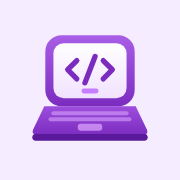
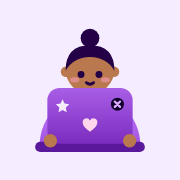
Make the mascot a little person typing on a laptop
Xpert now peeks over the laptop lid with hands on the keys. Moods show in
the face, hands and small extras: typing, waving, thinking, cheering,
ducking (peekaboo) and dozing. The logo taps the keys on load; favicon, app
icons and share image use the new mascot.

Claude-Session: https://claude.ai/code/session_012Rzw1pCt5xZ8fwkbxETP5X

Changed region(s): [[0.1667, 0.1389, 0.8333, 0.8611]]

diff --git a/public/xpert.js b/public/xpert.js
@@ -1,74 +1,77 @@
-// Xpert, the brand laptop, as a live SVG whose lid opens and closes.
+// Xpert, the brand mascot: a little person typing away behind a laptop, as a live SVG.
 // Everything is drawn once and CSS shows the state that matches data-mood:
-//   look   - lid open, </> on the screen with a blinking cursor
-//   wave   - look, with a happy little hop
-//   typing - lid open, lines of code typing across the screen
-//   think  - lid open, loading dots on the screen
-//   party  - lid open, a heart on the screen and sparkles around it
-//   closed - lid shut, stickers on the back
-//   sleepy - lid shut, with a floating Zzz
-// The lid closes by folding the screen down onto the keyboard; see "Xpert, the brand laptop" in styles.css.
-// The static logo is /mascot.svg.
+//   look   - typing calmly, eyes on the screen
+//   typing - typing fast, little bits of code floating up
+//   wave   - one hand up, waving hello
+//   think  - hands still, eyes up, thought bubbles
+//   party  - both hands up, sparkles and a heart
+//   closed - ducked down behind the laptop (peekaboo)
+//   sleepy - head resting on the laptop, Zzz
+// The lid faces us (its back, with stickers), so the person's face peeks over it.
+// See "Xpert, the brand mascot" in styles.css. The static logo is /mascot.svg.
 
 const reducedMotion = () => window.matchMedia('(prefers-reduced-motion: reduce)').matches;
 let uid = 0;
 
 export function xpert(mood = 'look', { size = 96, cls = '' } = {}) {
   const id = `xp${++uid}`;
+  const SKIN = '#b9784e';
+  const INK = '#240046';
   return `
 <svg class="xpert ${cls}" data-mood="${mood}" viewBox="-6 -10 80 78" width="${size}" height="${Math.round(size * 78 / 80)}" aria-hidden="true">
   <defs>
     <linearGradient id="${id}-lid" x1="0" y1="0" x2="0" y2="1"><stop offset="0" stop-color="#a95ee6"/><stop offset="1" stop-color="#7b2cbf"/></linearGradient>
-    <linearGradient id="${id}-scr" x1="0" y1="0" x2="0" y2="1"><stop offset="0" stop-color="#fff"/><stop offset="1" stop-color="#f1e2ff"/></linearGradient>
-    <linearGradient id="${id}-deck" x1="0" y1="0" x2="0" y2="1"><stop offset="0" stop-color="#9d4edd"/><stop offset="1" stop-color="#7b2cbf"/></linearGradient>
+    <linearGradient id="${id}-hood" x1="0" y1="0" x2="0" y2="1"><stop offset="0" stop-color="#c77dff"/><stop offset="1" stop-color="#9d4edd"/></linearGradient>
   </defs>
-  <ellipse cx="32" cy="58" rx="26" ry="2.6" fill="#3c096c" opacity=".16"/>
-  <g class="xp-body">
-    <!-- keyboard deck, seen from slightly above -->
-    <path d="M9.5 40h45l5.5 11.5a2 2 0 0 1-1.8 2.9H5.8A2 2 0 0 1 4 51.5z" fill="url(#${id}-deck)"/>
-    <g fill="#e0aaff" opacity=".55">
-      <rect x="13" y="42.4" width="38" height="2" rx="1"/><rect x="11.6" y="45.4" width="40.8" height="2" rx="1"/>
-    </g>
-    <rect x="26" y="48.6" width="12" height="3.4" rx="1.2" fill="#e0aaff" opacity=".7"/>
-    <rect x="3.6" y="53.6" width="56.8" height="3.4" rx="1.7" fill="#5a189a"/>
-    <!-- lid, open: screen faces us; it folds down toward the hinge at y=40 -->
-    <g class="xp-lid-front">
-      <rect x="10" y="5" width="44" height="35" rx="8" fill="url(#${id}-lid)"/>
-      <rect x="14" y="9" width="36" height="27" rx="5" fill="url(#${id}-scr)"/>
-      <circle cx="32" cy="7" r=".9" fill="#e0aaff"/>
-      <g class="xp-scr xp-code" stroke="#7b2cbf" stroke-width="2.4" fill="none" stroke-linecap="round" stroke-linejoin="round">
-        <path d="M25.5 17.5l-4.5 4.5 4.5 4.5M38.5 17.5l4.5 4.5-4.5 4.5M34.5 15.5l-5 13"/>
-        <path class="xp-caret" d="M29 32.5h6" stroke="#c77dff"/>
-      </g>
-      <g class="xp-scr xp-typing" stroke-width="2.2" stroke-linecap="round">
-        <path d="M19 15h14" stroke="#9d4edd"/><path d="M22 20h18" stroke="#c77dff"/><path d="M22 25h10" stroke="#9d4edd"/><path d="M19 30h20" stroke="#c77dff"/>
-      </g>
-      <g class="xp-scr xp-dots" fill="#9d4edd"><circle cx="26" cy="22.5" r="2"/><circle cx="32" cy="22.5" r="2"/><circle cx="38" cy="22.5" r="2"/></g>
-      <g class="xp-scr xp-heart">
-        <path d="M32 29.5s-7.5-4.6-7.5-9.4a4 4 0 0 1 7.5-2 4 4 0 0 1 7.5 2c0 4.8-7.5 9.4-7.5 9.4z" fill="#9d4edd"/>
-        <path d="M19.5 14.5l.8 1.8 1.8.8-1.8.8-.8 1.8-.8-1.8-1.8-.8 1.8-.8zM44.5 26.5l.7 1.5 1.5.7-1.5.7-.7 1.5-.7-1.5-1.5-.7 1.5-.7z" fill="#c77dff"/>
-      </g>
-    </g>
-    <!-- lid, closed: the back of the lid lies over the deck, with stickers -->
-    <g class="xp-lid-back">
-      <path d="M9.5 40h45l5.5 11.5a2 2 0 0 1-1.8 2.9H5.8A2 2 0 0 1 4 51.5z" fill="url(#${id}-lid)"/>
-      <path d="M9.5 40h45" stroke="#e0aaff" stroke-width="1" opacity=".6"/>
-      <path d="M20 50.2s-3.6-2.2-3.6-4.5a1.9 1.9 0 0 1 3.6-1 1.9 1.9 0 0 1 3.6 1c0 2.3-3.6 4.5-3.6 4.5z" fill="#ffd6ec"/>
-      <path d="M32 42.8l1.1 2.3 2.5.4-1.8 1.8.4 2.5-2.2-1.2-2.2 1.2.4-2.5-1.8-1.8 2.5-.4z" fill="#fff" opacity=".9"/>
-      <g transform="translate(44 46.5)"><circle r="3.4" fill="#10002b"/><path d="M-1.4-1.4l2.8 2.8m0-2.8-2.8 2.8" stroke="#e0aaff" stroke-width="1.2" stroke-linecap="round"/></g>
+  <ellipse cx="32" cy="58" rx="28" ry="2.6" fill="#3c096c" opacity=".16"/>
+  <g class="xp-person">
+    <path d="M7 54q0-25 25-26 25 1 25 26z" fill="url(#${id}-hood)"/>
+    <g class="xp-head">
+      <circle cx="20.2" cy="15" r="2.6" fill="${SKIN}"/><circle cx="43.8" cy="15" r="2.6" fill="${SKIN}"/>
+      <circle cx="32" cy="14" r="12" fill="${SKIN}"/>
+      <path d="M20 14.5q0-12.5 12-12.5t12 12.5q-3.5-6.5-12-6.8-8.5.3-12 6.8z" fill="${INK}"/>
+      <circle cx="32" cy="-1.5" r="4.6" fill="${INK}"/>
+      <ellipse cx="24.4" cy="19" rx="2.3" ry="1.3" fill="#ff9fb8" opacity=".55"/><ellipse cx="39.6" cy="19" rx="2.3" ry="1.3" fill="#ff9fb8" opacity=".55"/>
+      <g class="xp-face xp-eyes" fill="${INK}"><circle cx="27.6" cy="15.6" r="1.6"/><circle cx="36.4" cy="15.6" r="1.6"/></g>
+      <path class="xp-face xp-happy" d="M25.6 16q2-2.4 4 0M34.4 16q2-2.4 4 0" stroke="${INK}" stroke-width="1.6" fill="none" stroke-linecap="round"/>
+      <path class="xp-face xp-shut" d="M25.6 15.6q2 1.4 4 0M34.4 15.6q2 1.4 4 0" stroke="${INK}" stroke-width="1.6" fill="none" stroke-linecap="round"/>
+      <path class="xp-face xp-smile" d="M30.2 20.4q1.8 1.5 3.6 0" stroke="${INK}" stroke-width="1.4" fill="none" stroke-linecap="round"/>
+      <path class="xp-face xp-grin" d="M29.6 19.8h4.8a2.4 2.4 0 0 1-4.8 0z" fill="${INK}"/>
+      <circle class="xp-face xp-o" cx="32" cy="20.6" r="1.1" fill="${INK}"/>
     </g>
   </g>
+  <g class="xp-laptop">
+    <rect x="5" y="49.5" width="54" height="5" rx="2.5" fill="#5a189a"/>
+    <g class="xp-lid">
+      <rect x="11" y="23" width="42" height="27.5" rx="6" fill="url(#${id}-lid)"/>
+      <path d="M17 23.6h30" stroke="#e0aaff" stroke-width="1" opacity=".5" stroke-linecap="round"/>
+      <path d="M32 44.5s-3.6-2.2-3.6-4.5a1.9 1.9 0 0 1 3.6-1 1.9 1.9 0 0 1 3.6 1c0 2.3-3.6 4.5-3.6 4.5z" fill="#ffd6ec"/>
+      <path d="M18.5 28.5l1 2.1 2.3.4-1.7 1.6.4 2.3-2-1.1-2 1.1.4-2.3-1.7-1.6 2.3-.4z" fill="#fff" opacity=".9"/>
+      <g transform="translate(45.5 31)"><circle r="3.2" fill="#10002b"/><path d="M-1.3-1.3l2.6 2.6m0-2.6-2.6 2.6" stroke="#e0aaff" stroke-width="1.1" stroke-linecap="round"/></g>
+    </g>
+  </g>
+  <g class="xp-hands" fill="${SKIN}">
+    <circle class="xp-hand xp-hand-l" cx="12.5" cy="49" r="3.3"/>
+    <circle class="xp-hand xp-hand-r" cx="51.5" cy="49" r="3.3"/>
+  </g>
+  <g class="xp-extra xp-bits" fill="none" stroke="#9d4edd" stroke-width="1.6" stroke-linecap="round" stroke-linejoin="round">
+    <path d="M55 12l-2.5 2.5 2.5 2.5M60 12l2.5 2.5-2.5 2.5"/>
+    <path d="M6 16q-1.5 0-1.5 1.5v1q0 1-1 1 1 0 1 1v1q0 1.5 1.5 1.5"/>
+    <circle cx="62" cy="26" r="1.2" fill="#c77dff" stroke="none"/>
+  </g>
+  <g class="xp-extra xp-thought" fill="#c77dff"><circle cx="47" cy="4" r="1.4"/><circle cx="51.5" cy="-1" r="2.1"/><circle cx="57.5" cy="-6" r="3"/></g>
   <g class="xp-extra xp-zzz" fill="#9d4edd" font-family="Nunito, sans-serif" font-weight="900">
-    <text x="50" y="30" font-size="9">z</text><text x="57" y="22" font-size="7">z</text><text x="62" y="15" font-size="5">z</text>
+    <text x="48" y="14" font-size="9">z</text><text x="55" y="6" font-size="7">z</text><text x="60" y="-1" font-size="5">z</text>
   </g>
   <g class="xp-extra xp-spark" fill="#c77dff">
     <path d="M2 4l1.5 3.5L7 9 3.5 10.5 2 14 .5 10.5-3 9 .5 7.5z"/>
     <path d="M64 6l1.2 2.8L68 10l-2.8 1.2L64 14l-1.2-2.8L60 10l2.8-1.2z"/>
+    <path d="M14-.5s-3-1.8-3-3.8a1.6 1.6 0 0 1 3-.8 1.6 1.6 0 0 1 3 .8c0 2-3 3.8-3 3.8z" fill="#ff9fb8"/>
   </g>
 </svg>`;
 }
 
-/** Changes the state of a laptop. After `ms`, it moves on to `next` (by default, the state it had before). */
+/** Changes the state of a mascot. After `ms`, it moves on to `next` (by default, the state it had before). */
 export function setMood(svg, mood, ms, next = svg?.dataset.mood) {
   if (!svg) return;
   svg.dataset.mood = mood;
@@ -76,7 +79,7 @@ export function setMood(svg, mood, ms, next = svg?.dataset.mood) {
   if (ms) svg._moodTimer = setTimeout(() => { svg.dataset.mood = next; }, ms);
 }
 
-/** Closes the lid, then opens it again into `mood` (a little "blink" of the laptop). */
+/** Ducks behind the laptop, then pops back up into `mood` (a little "peekaboo"). */
 export function blink(svg, mood = svg?.dataset.mood ?? 'look', ms = 650) {
   if (!svg) return;
   clearTimeout(svg._moodTimer);

diff --git a/public/styles.css b/public/styles.css
@@ -715,48 +715,62 @@ input:focus, textarea:focus, select:focus { border-color: var(--p400); outline: 
 .cta .contact-line { color: #d9c4f2; opacity: 1; }
 .cta .contact-line a { color: #fff; text-decoration-color: var(--p300); }
 
-/* Xpert, the brand laptop (public/xpert.js). Closing folds the screen down to the hinge
-   (scaleY to 0 from y=40), then unfolds the lid's back over the keyboard deck. Opening runs
-   the same two steps in reverse; the delays below sequence them in each direction. */
+/* Xpert, the brand mascot (public/xpert.js): a little person typing behind a laptop.
+   Faces, hands and extras switch with data-mood; for closed they duck behind the lid. */
 .xpert { display: block; overflow: visible; }
-.xpert .xp-lid-front, .xpert .xp-lid-back, .xpert .xp-body { transform-box: view-box; }
-.xpert .xp-lid-front { transform-origin: 32px 40px; transition: transform .26s cubic-bezier(.3, 1.35, .5, 1) .2s; }
-.xpert .xp-lid-back { transform-origin: 32px 40px; transform: scaleY(0); transition: transform .2s ease-in; }
-.xpert:is([data-mood="closed"], [data-mood="sleepy"]) .xp-lid-front { transform: scaleY(0); transition: transform .24s ease-in; }
-.xpert:is([data-mood="closed"], [data-mood="sleepy"]) .xp-lid-back { transform: scaleY(1); transition: transform .2s cubic-bezier(.3, 1.4, .5, 1) .24s; }
-.xpert .xp-scr, .xpert .xp-extra { display: none; }
-.xpert:is([data-mood="look"], [data-mood="wave"]) .xp-code,
-.xpert[data-mood="typing"] .xp-typing,
-.xpert[data-mood="think"] .xp-dots,
-.xpert[data-mood="party"] :is(.xp-heart, .xp-spark),
-.xpert[data-mood="sleepy"] .xp-zzz { display: inline; }
-.xpert .xp-caret { animation: xp-caret 1.1s steps(1) infinite; }
-.xpert .xp-typing path { transform-box: fill-box; transform-origin: left center; animation: xp-type 1.4s ease-out infinite; }
-.xpert .xp-typing path:nth-child(2) { animation-delay: .2s; }
-.xpert .xp-typing path:nth-child(3) { animation-delay: .4s; }
-.xpert .xp-typing path:nth-child(4) { animation-delay: .6s; }
-.xpert[data-mood="think"] .xp-body, .xp-loading .xpert .xp-body { animation: xp-bob 1.6s ease-in-out infinite; }
-.xpert .xp-dots circle { animation: xp-dot 1.2s ease-in-out infinite; }
-.xpert .xp-dots circle:nth-child(2) { animation-delay: .15s; }
-.xpert .xp-dots circle:nth-child(3) { animation-delay: .3s; }
-.xpert:is([data-mood="party"], [data-mood="wave"]) .xp-body { transform-origin: 32px 56px; animation: xp-hop .5s ease-in-out 2; }
-.xpert .xp-heart path:first-child { transform-box: fill-box; transform-origin: center; animation: xp-beat 1s ease-in-out infinite; }
+.xpert :is(.xp-head, .xp-hand, .xp-person) { transform-box: view-box; transition: transform .3s cubic-bezier(.3, 1.4, .5, 1); }
+.xpert .xp-head { transform-origin: 32px 26px; }
+.xpert .xp-face, .xpert .xp-extra { display: none; }
+/* faces */
+.xpert:is([data-mood="look"], [data-mood="typing"], [data-mood="think"], [data-mood="closed"]) .xp-eyes,
+.xpert:is([data-mood="look"], [data-mood="typing"], [data-mood="closed"]) .xp-smile,
+.xpert:is([data-mood="wave"], [data-mood="party"]) :is(.xp-happy, .xp-grin),
+.xpert[data-mood="think"] .xp-o,
+.xpert[data-mood="sleepy"] :is(.xp-shut, .xp-o) { display: inline; }
+/* extras */
+.xpert[data-mood="typing"] .xp-bits, .xpert[data-mood="think"] .xp-thought,
+.xpert[data-mood="party"] .xp-spark, .xpert[data-mood="sleepy"] .xp-zzz { display: inline; }
+/* eyes look down at the keys while typing, up while thinking */
+.xpert:is([data-mood="look"], [data-mood="typing"]) .xp-eyes { transform: translateY(.8px); }
+.xpert[data-mood="think"] .xp-eyes { transform: translate(1.2px, -1.4px); }
+.xpert[data-mood="think"] .xp-head { transform: rotate(-6deg); }
+/* hands: typing taps, wave, cheer */
+.xpert:is([data-mood="look"], [data-mood="typing"]) .xp-hand { animation: xp-tap .5s ease-in-out infinite alternate; }
+.xpert[data-mood="typing"] .xp-hand { animation-duration: .22s; }
+.xpert .xp-hand-r { animation-delay: .25s !important; }
+.xpert[data-mood="typing"] .xp-hand-r { animation-delay: .11s !important; }
+.xpert[data-mood="wave"] .xp-hand-r { transform: translate(5px, -24px); animation: xp-wave .45s ease-in-out .3s infinite alternate; transform-origin: 56px 25px; }
+.xpert[data-mood="party"] .xp-hand-l { transform: translate(-5px, -26px); }
+.xpert[data-mood="party"] .xp-hand-r { transform: translate(5px, -26px); }
+.xpert[data-mood="party"] .xp-person { animation: xp-hop .5s ease-in-out 2; transform-origin: 32px 54px; }
+/* closed: ducks behind the laptop (peekaboo); sleepy: head resting on the lid */
+.xpert[data-mood="closed"] .xp-head { transform: translateY(13px); }
+.xpert[data-mood="sleepy"] .xp-head { transform: translate(-1px, 3.5px) rotate(14deg); }
+.xpert[data-mood="sleepy"] .xp-person { animation: xp-breathe 3.2s ease-in-out infinite; transform-origin: 32px 54px; }
+.xpert[data-mood="think"] .xp-thought circle { animation: xp-dot 1.2s ease-in-out infinite; }
+.xpert[data-mood="think"] .xp-thought circle:nth-child(2) { animation-delay: .2s; }
+.xpert[data-mood="think"] .xp-thought circle:nth-child(3) { animation-delay: .4s; }
+.xpert .xp-bits > * { transform-box: fill-box; animation: xp-rise 1.6s ease-out infinite; }
+.xpert .xp-bits > :nth-child(2) { animation-delay: .5s; }
+.xpert .xp-bits > :nth-child(3) { animation-delay: 1s; }
 .xpert .xp-spark path { transform-box: fill-box; transform-origin: center; animation: xp-twinkle 1s ease-in-out infinite; }
 .xpert .xp-zzz text { animation: xp-z 2.4s ease-in-out infinite; }
 .xpert .xp-zzz text:nth-child(2) { animation-delay: .4s; }
 .xpert .xp-zzz text:nth-child(3) { animation-delay: .8s; }
-@keyframes xp-caret { 50% { opacity: 0; } }
-@keyframes xp-type { 0% { transform: scaleX(0); } 45%, 100% { transform: scaleX(1); } }
-@keyframes xp-bob { 0%, 100% { transform: none; } 50% { transform: translateY(-2px); } }
-@keyframes xp-dot { 0%, 100% { opacity: .25; } 50% { opacity: 1; } }
-@keyframes xp-hop { 0%, 100% { transform: none; } 50% { transform: translateY(-4px) rotate(-2deg); } }
-@keyframes xp-beat { 0%, 100% { transform: scale(1); } 30% { transform: scale(1.14); } 60% { transform: scale(.96); } }
+.xp-loading .xpert .xp-person { animation: xp-bob 1.6s ease-in-out infinite; }
+@keyframes xp-tap { from { transform: translateY(0); } to { transform: translateY(-2.2px); } }
+@keyframes xp-wave { from { transform: translate(5px, -24px) rotate(-14deg); } to { transform: translate(5px, -24px) rotate(14deg); } }
+@keyframes xp-hop { 0%, 100% { transform: none; } 50% { transform: translateY(-3px); } }
+@keyframes xp-breathe { 0%, 100% { transform: none; } 50% { transform: scale(1.015, .985); } }
+@keyframes xp-bob { 0%, 100% { transform: none; } 50% { transform: translateY(-1.5px); } }
+@keyframes xp-dot { 0%, 100% { opacity: .3; } 50% { opacity: 1; } }
+@keyframes xp-rise { 0% { opacity: 0; transform: translateY(4px); } 30% { opacity: 1; } 100% { opacity: 0; transform: translateY(-7px); } }
 @keyframes xp-twinkle { 0%, 100% { transform: scale(.6); opacity: .5; } 50% { transform: scale(1.15); opacity: 1; } }
 @keyframes xp-z { 0% { opacity: 0; transform: translate(0, 4px); } 40% { opacity: 1; } 100% { opacity: 0; transform: translate(3px, -6px); } }
 
 /* Hero: Xpert sits on the top edge of the finder */
 .finder { position: relative; }
-.finder-xpert { position: absolute; right: 22px; bottom: 100%; margin-bottom: -14px; display: flex; align-items: center; gap: 6px; z-index: 2; pointer-events: none; }
+.finder-xpert { position: absolute; right: 22px; bottom: 100%; margin-bottom: -17px; display: flex; align-items: center; gap: 6px; z-index: 2; pointer-events: none; }
 .xp-poke { pointer-events: auto; border: 0; padding: 0; background: none; cursor: pointer; border-radius: 16px; filter: drop-shadow(0 10px 14px rgb(10 0 30 / 35%)); transition: transform .2s; }
 .xp-poke:hover { transform: translateY(-3px) rotate(-3deg); }
 .xp-poke:focus-visible { outline: 3px solid var(--p200); outline-offset: 2px; }
@@ -766,7 +780,7 @@ input:focus, textarea:focus, select:focus { border-color: var(--p400); outline: 
 .hero .finder { margin-top: 64px; }
 @media (max-width: 520px) {
   .finder-xpert { right: 14px; margin-bottom: -11px; }
-  .finder-xpert .xpert { width: 68px; height: 66px; }
+  .finder-xpert .xpert { width: 80px; height: 78px; }
   .xp-bubble { font-size: .8rem; padding: 7px 11px; margin-bottom: 20px; }
 }
 

diff --git a/public/app.js b/public/app.js
@@ -497,7 +497,7 @@ async function viewHome() {
         <div class="finder">
           <div class="finder-xpert">
             <span class="xp-bubble" id="hero-bubble">Hi, I'm Xpert!</span>
-            <button type="button" class="xp-poke" id="hero-xpert" aria-label="Say hi to Xpert">${xpert('closed', { size: 88 })}</button>
+            <button type="button" class="xp-poke" id="hero-xpert" aria-label="Say hi to Xpert">${xpert('closed', { size: 104 })}</button>
           </div>
           <div class="finder-tabs" role="tablist" data-active="hire">
             <button type="button" role="tab" aria-selected="true" class="on" data-finder="hire">${icon('briefcase', { size: 18 })}Hire a team</button>

diff --git a/README.md b/README.md
@@ -17,7 +17,7 @@ Your tech team, on your timeline. Clients describe what they're building, set a 
 
 **Platform**
 - A minimal landing page: a photo hero with a hire/join finder, a rotating "On demand" line, role photos, "How it works" in one line, pricing packages, a team builder that prices a custom team, and a developer call to action. Prices (senior hourly rates by role, mid/expert multipliers, packages and the promises row) are set in `ROLE_RATES`, `LEVELS`, `PACKAGES` and `PROMISES` in `public/app.js`.
-- **Xpert, the brand laptop** (`public/xpert.js`): a cute laptop whose lid really opens and closes. It opens to say hello on the hero, types along while a client describes their idea, shows a heart when the idea is long enough, blinks its lid when clicked, shows loading dots while the AI scopes a job, celebrates (with confetti) when a job goes live, and closes to sleep on the not-found and offline screens. The logo (`public/mascot.svg`) opens its lid once on load. Motion is skipped when the visitor prefers reduced motion.
+- **Xpert, the mascot** (`public/xpert.js`): a little person typing on a laptop, peeking over the lid. It waves hello on the hero, types faster (with bits of code floating up) while a client describes their idea, cheers with both hands up when the idea is long enough, ducks behind the laptop and pops back up when clicked, thinks while the AI scopes a job, celebrates (with confetti) when a job goes live, and dozes on the laptop on the not-found and offline screens. The logo (`public/mascot.svg`) taps the keys a few times on load. Motion is skipped when the visitor prefers reduced motion.
 - **Team forming:** in the team builder, each person you add drops into one of five seats; on a job page, new team members pop into place and open seats gently pulse.
 - **World map** of where clients and experts are, drawn from a dot grid (`public/images/world-dots.svg`, made from the public-domain Natural Earth land outline) with glowing city pins and arcs.
 - **How it works timeline:** Idea → Team → Launch, filling in as you scroll.
